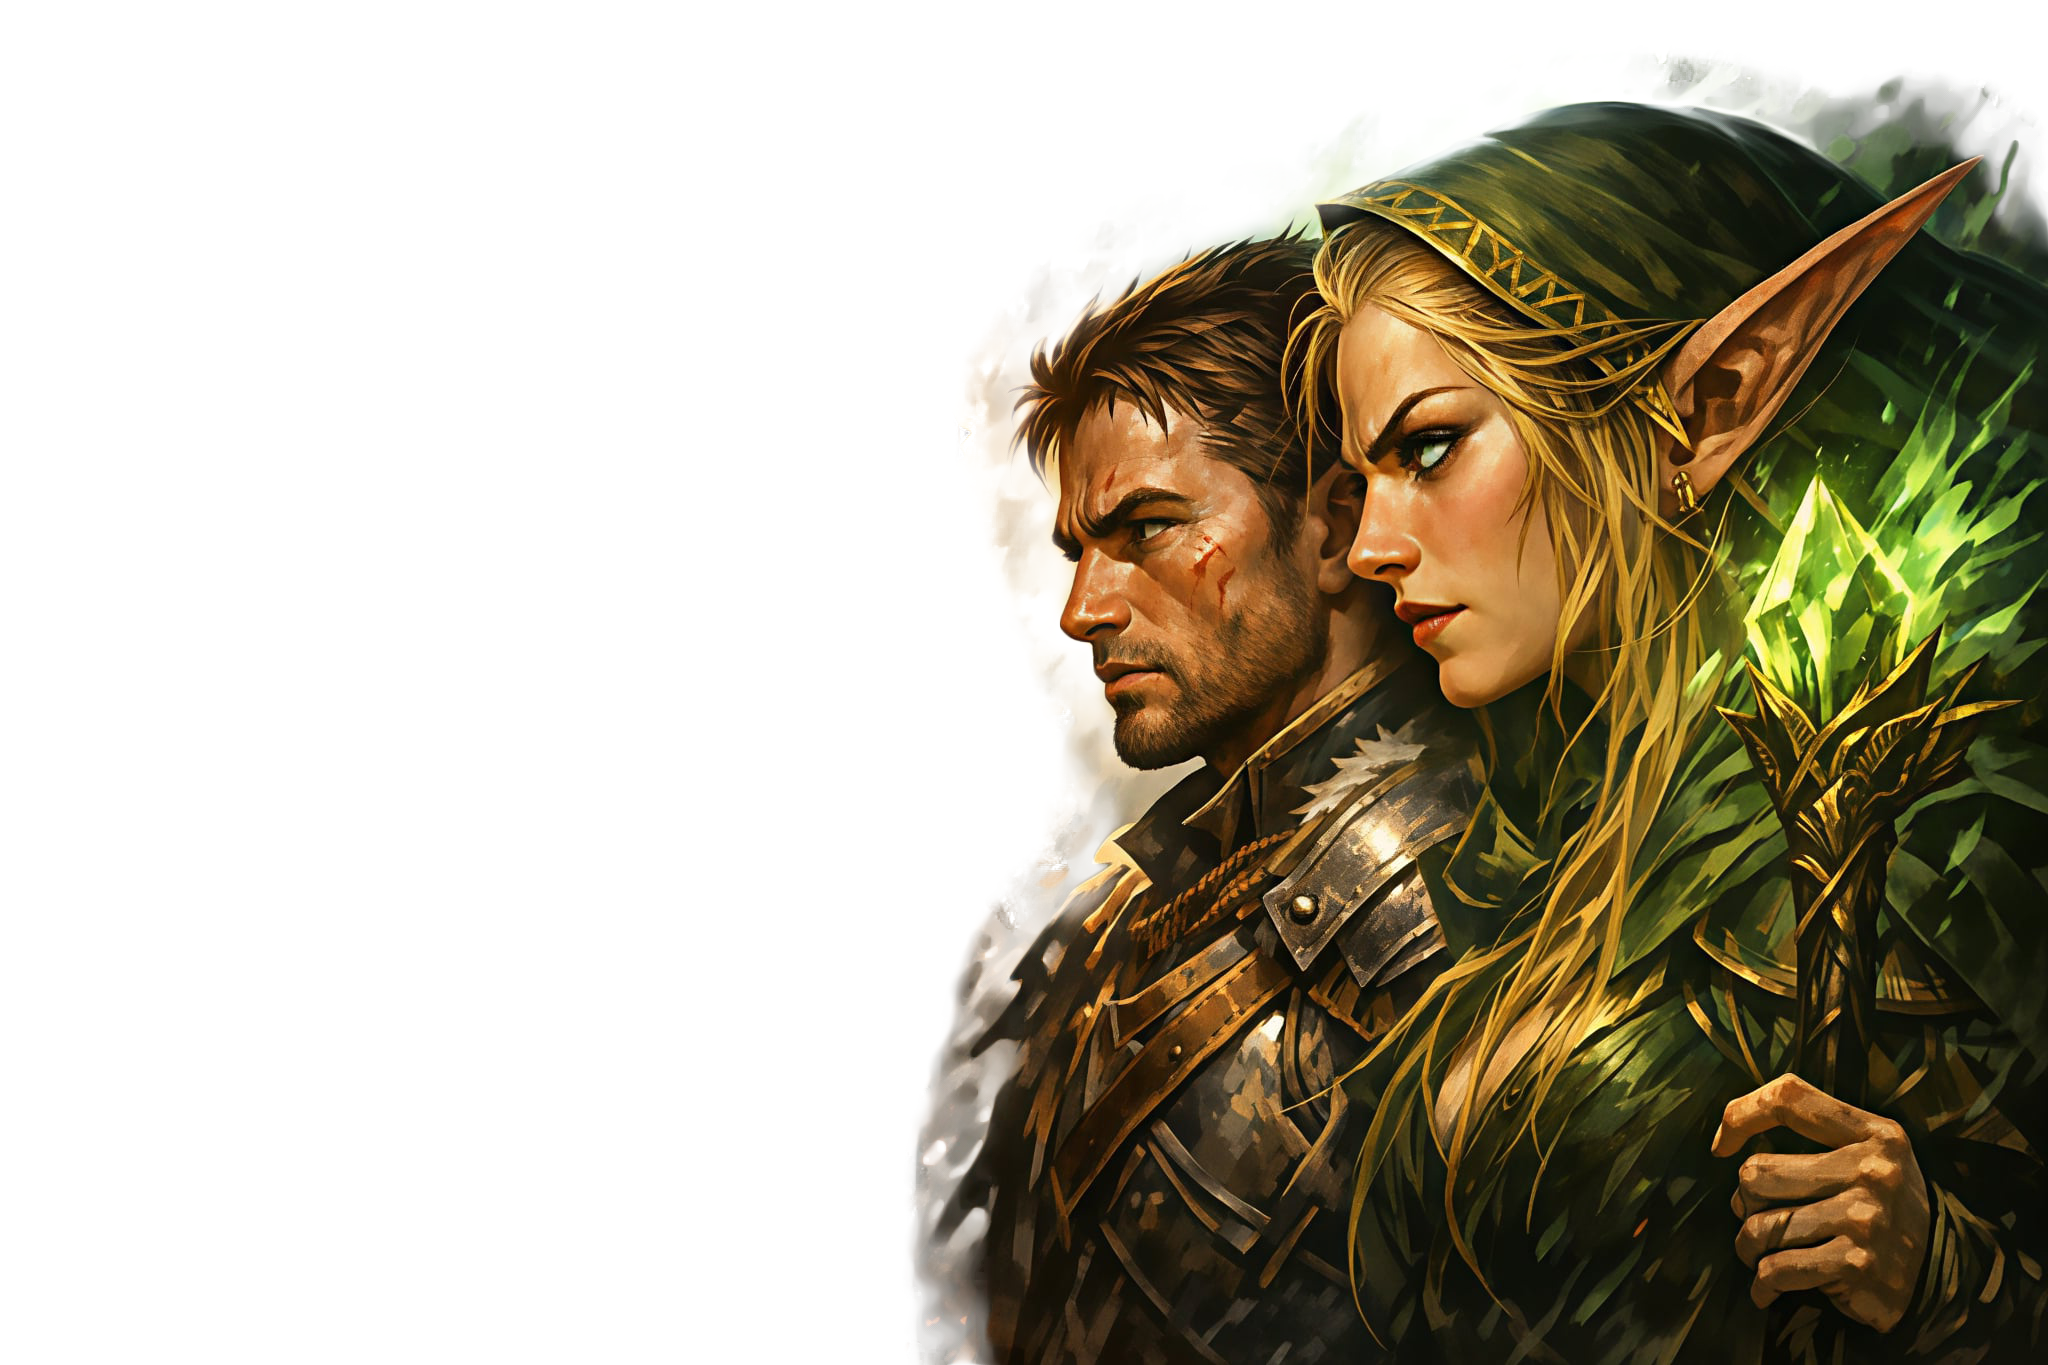
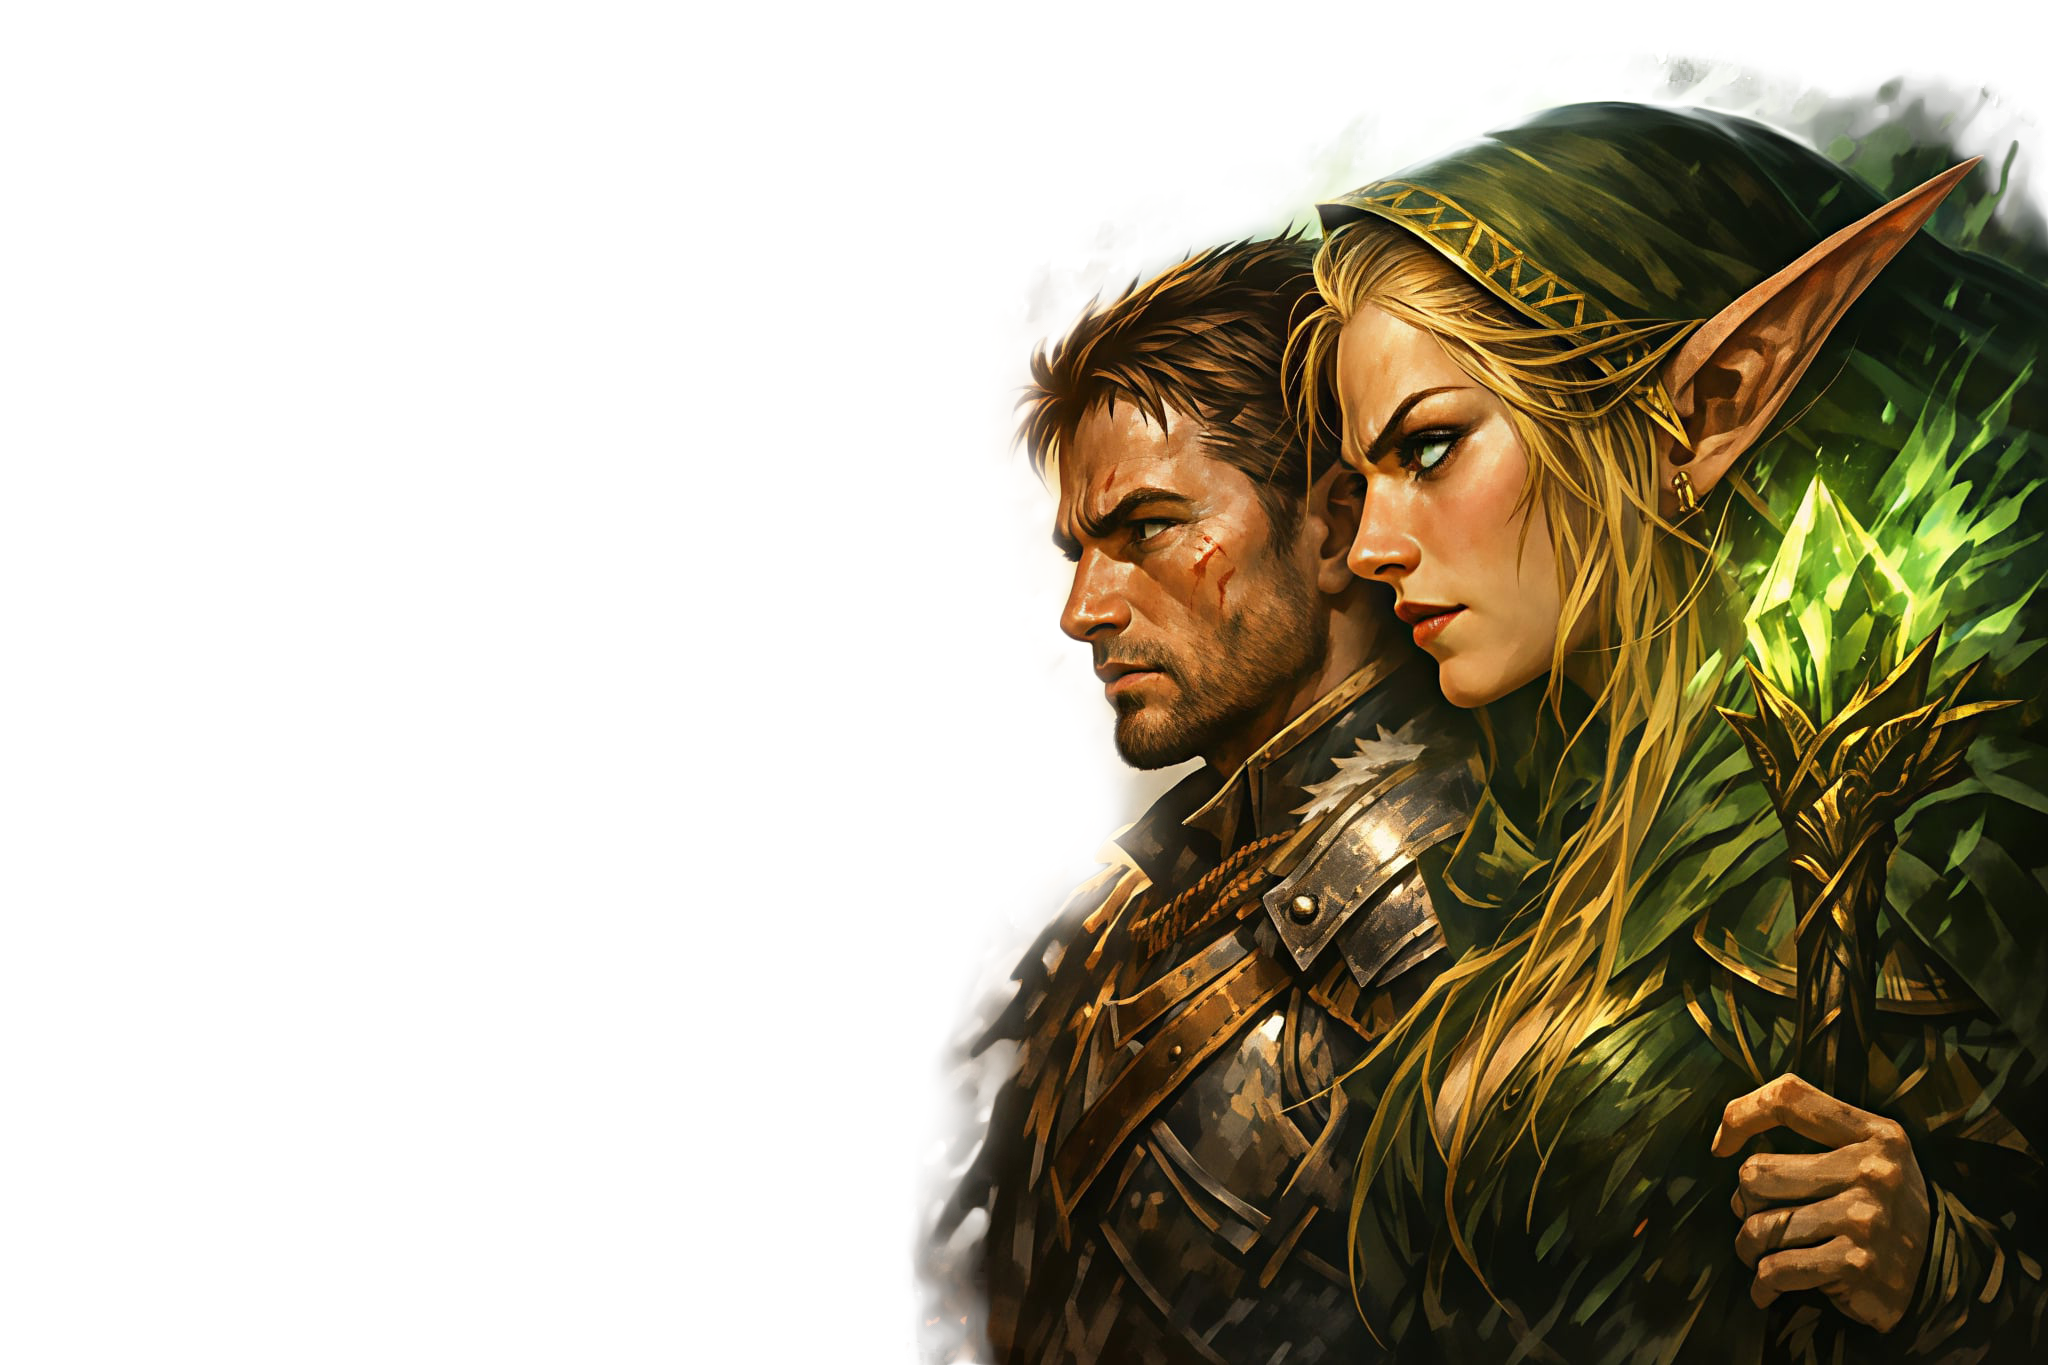
Improve transparency for the landing page and Remove userless text

diff --git a/content.js b/content.js
@@ -95,7 +95,6 @@ function renderHowToPlay() {
     '<div class="container">' +
       '<div class="sec-label">The Codex</div>' +
       '<h2 class="sec-title">How to Play</h2>' +
-      '<p class="sec-intro">Two-Headed Commander fuses the singleton deckbuilding and legendary commanders of EDH with the cooperative, simultaneous-turn structure of Two-Headed Giant.</p>' +
       '<div class="steps">' + steps + '</div>' +
     '</div>';
 }
@@ -145,7 +144,6 @@ var KEY_DIFFERENCES = [
 function renderDifferences() {
   var cards = KEY_DIFFERENCES.map(function (d) {
     return '<div class="diff-card ' + d.color + '">' +
-      '<span class="diff-icon">' + d.icon + '</span>' +
       '<div class="diff-title">' + d.title + '</div>' +
       '<p class="diff-text">' + d.text + '</p>' +
       '<span class="diff-tag ' + d.tagClass + '">' + d.tag + '</span>' +
